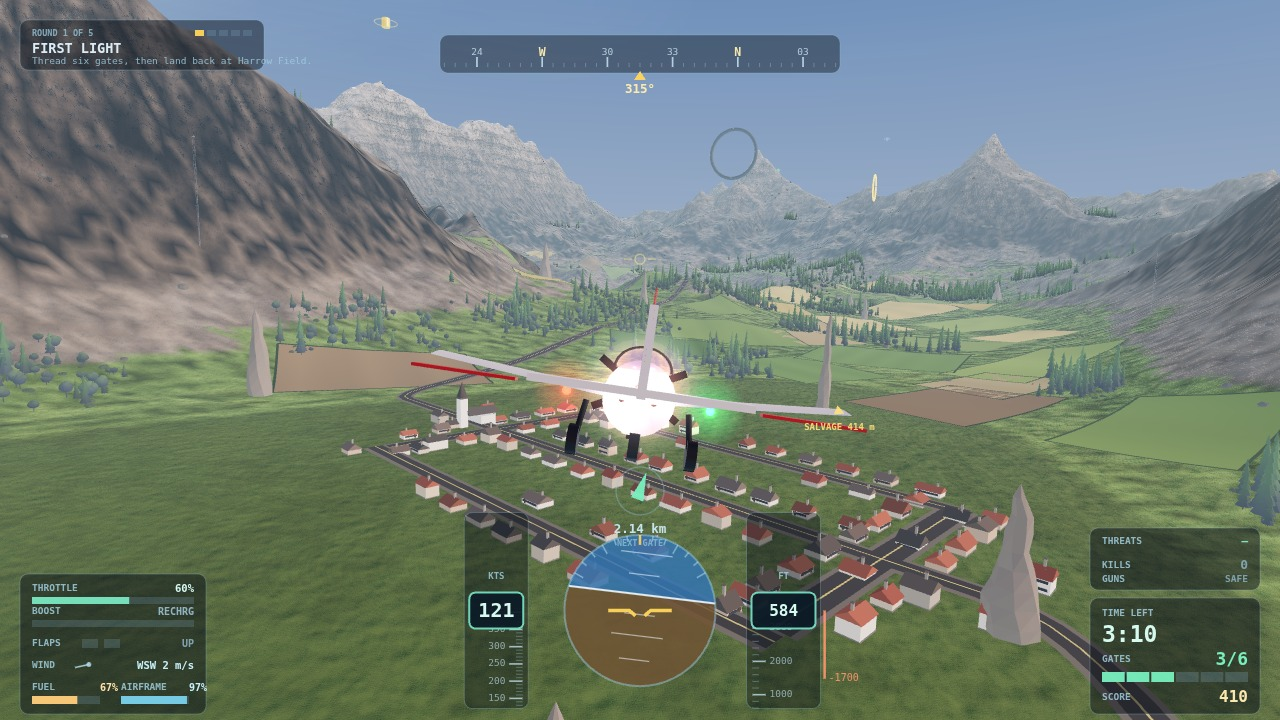
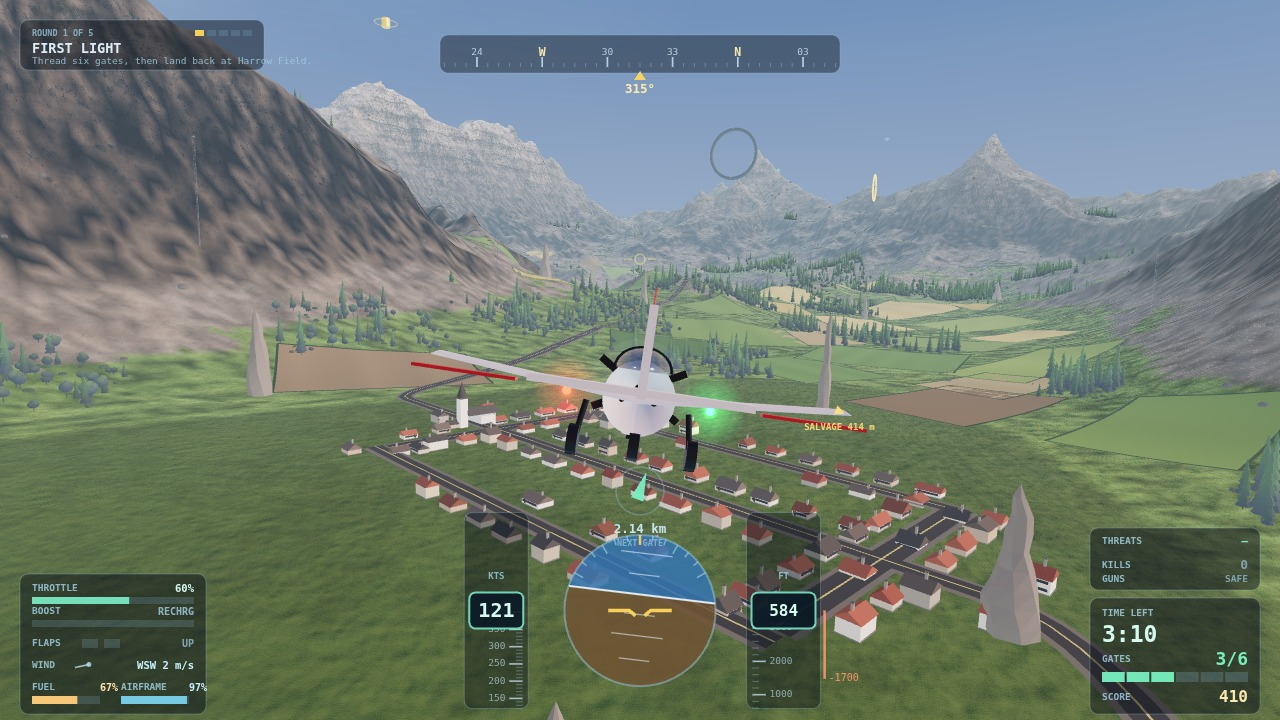
Park the sortie clock past the strobe flash when rendering a screenshot
The anti-collision strobe is lit for the first 6% of its 1.2s cycle, and every
screenshot scene rendered one frame from a clock that starts at zero. So every
still caught the flash, and the white halo sat on the fuselage in all four --
worst in the night shot, where it read as a blob over the airframe.

applyScene now sets sortie.time to 0.6s (the middle of the dark half of the
cycle) before its single render. Nothing else in a still is phase-sensitive.

Verified: pure-white pixels in the airframe region went 604 -> 0 (settlement),
366 -> 0 (dogfight), 15 -> 0 (coast), 924 -> 0 (night). Nav lights, beacon and
the spinning prop disc are all unchanged; dev-world and dev-systems still pass.

Changed region(s): [[0.4375, 0.4583, 0.5625, 0.6417]]

diff --git a/game/src/scenes.js b/game/src/scenes.js
@@ -12,6 +12,16 @@ import { CAMPAIGN, RUNWAY } from './config.js';
 import { placeInAir } from './physics.js';
 import { nextGate, scoreRound, styleGate } from './mission.js';
 import { coastAt } from './sea.js';
+
+/**
+ * A sortie-clock value at which the anti-collision strobe is dark.
+ *
+ * The strobe's own cycle is `(time / 1.2) % 1`, lit while that fraction is below 0.06 or between
+ * 0.13 and 0.19. Every screenshot scene renders a single frame from a clock that starts at zero,
+ * so without this the flash lands in every still as a white blob over the fuselage. 0.6 s is the
+ * middle of the dark half of the cycle, far from both windows.
+ */
+const STROBE_DARK = 0.6;
 /** Marks the first `n` gates as flown and highlights the one the pilot is flying to. */
 function markGates(game, n) {
   game.gates.forEach((g, i) => {
@@ -486,9 +496,10 @@ export const SCENES = {
     game.aircraftState.fuel = 64;
     game.aircraftState.health = 97;
     game.aircraftState.throttle = 0.6;
-    // Boost off. The exhaust cone and its halo are additive and tone-mapped off, so a charged
-    // engine renders as a white blob at the nose in a close cinematic arm — it hid the centre of
-    // the town, which is the only thing this shot exists to show.
+    // Boost off: the exhaust cones are additive, so a charged engine paints two hot streaks under
+    // the cowl that pull the eye off the town this shot exists to show. (The white halo over the
+    // fuselage was a different thing — the tail strobe, lit because the frame was rendered at
+    // sortie.time 0; applyScene now parks the clock past the flash for every scene.)
     game.aircraftState.boost = 0;
     game.aircraftState.boostSpool = 0;
     game.sortie.timeLeft = 190;
@@ -730,6 +741,11 @@ export function applyScene(game, name) {
   const scene = SCENES[name];
   if (!scene) return false;
   scene(game);
+  // The sortie clock starts at zero, and the anti-collision strobe is lit for the first 6% of its
+  // 1.2 s cycle — so a frame rendered at t=0 catches the flash every single time and the white
+  // halo sits on the fuselage in every still. Park the clock just after the flash instead: the
+  // strobe is dark, and nothing else in a still is sensitive to the phase.
+  game.sortie.time = STROBE_DARK;
   game.renderNow();
   return true;
 }
